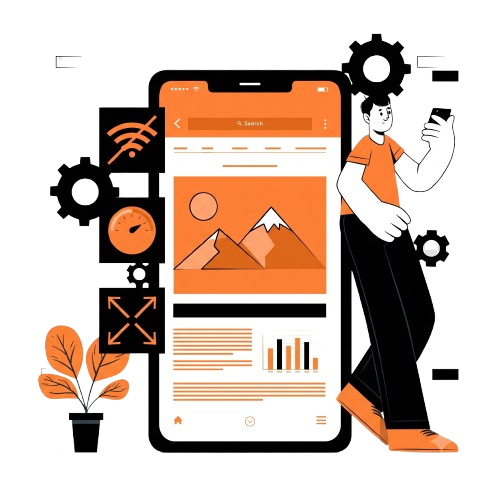
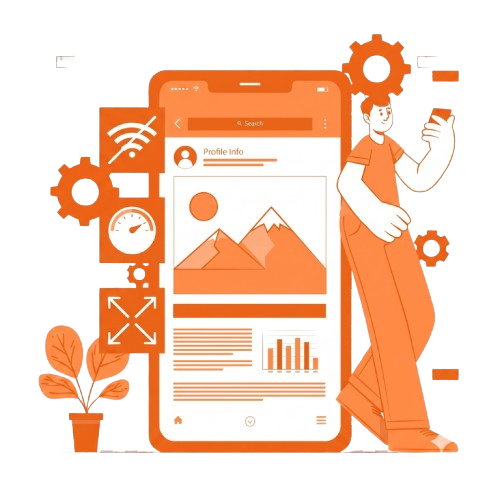
change black color background colors

Changed region(s): [[0.06, 0.06, 0.93, 0.93], [0.87, 0.33, 0.9, 0.36]]

diff --git a/src/components/sections/LandoStyleSection.tsx b/src/components/sections/LandoStyleSection.tsx
@@ -66,7 +66,7 @@ export default function LandoStyleSection() {
   }, [mounted]);
 
   if (!mounted) {
-    return <section className="w-full h-[650px] bg-[#0E100D]" />;
+    return <section className="w-full h-[650px] bg-[#000000]" />;
   }
 
   const marqueeText1 = "WE DID IT TOGETHER • CRAFTING DIGITAL DREAMS • DRIVEN BY CODE • SCALING BRANDS WORLDWIDE • ";
@@ -75,7 +75,8 @@ export default function LandoStyleSection() {
   return (
     <section
       ref={sectionRef}
-      className="relative w-full min-h-[700px] md:min-h-[850px] bg-[#0E100D] text-white overflow-hidden select-none flex flex-col justify-between py-8 md:py-12 border-y border-white/10"
+      id="landostyle-section"
+      className="relative w-full min-h-[700px] md:min-h-[850px] bg-[#000000] text-white overflow-hidden select-none flex flex-col justify-between py-8 md:py-12 border-y border-white/10"
     >
 
       {/* ─── 2. TOP HEADER NAVIGATION BAR ─── */}

diff --git a/src/components/sections/FaqSection.tsx b/src/components/sections/FaqSection.tsx
@@ -71,13 +71,14 @@ export default function FaqSection() {
   };
 
   if (!mounted) {
-    return <section className="w-full min-h-screen bg-[#0d0e10]" />;
+    return <section className="w-full min-h-screen bg-[#000000]" />;
   }
 
   return (
     <section
       ref={sectionRef}
-      className="w-full min-h-screen h-auto py-16 lg:py-24 lg:min-h-screen bg-[#0d0e10] text-white flex items-center justify-center overflow-hidden select-none"
+      id="faq-section"
+      className="w-full min-h-screen h-auto py-16 lg:py-24 lg:min-h-screen bg-[#000000] text-white flex items-center justify-center overflow-hidden select-none"
     >
       <div className="w-full max-w-[1550px] mx-auto px-5 sm:px-10 md:px-16 lg:px-20">
         <div className="grid grid-cols-1 lg:grid-cols-12 gap-8 lg:gap-12 xl:gap-20 items-center">

diff --git a/src/components/sections/About.tsx b/src/components/sections/About.tsx
@@ -193,14 +193,14 @@ export default function About() {
   }, [mounted]);
 
   if (!mounted) {
-    return <section className="w-full h-screen bg-[#0A0B0E]" />;
+    return <section className="w-full h-screen bg-[#000000]" />;
   }
 
   return (
     <section
       id="about-section"
       ref={containerRef}
-      className="w-full bg-[#0A0B0E] text-white select-none relative overflow-hidden py-16 sm:py-24 border-y border-white/10 font-inter"
+      className="w-full bg-[#000000] text-white select-none relative overflow-hidden py-16 sm:py-24 border-y border-white/10 font-inter"
     >
       <div className="w-full max-w-[1440px] mx-auto px-4 sm:px-8 lg:px-12">
         {/* ─── 1. TOP EDITORIAL SVG TITLE BANNER ─── */}

diff --git a/src/components/sections/ImageFanShowcase.tsx b/src/components/sections/ImageFanShowcase.tsx
@@ -180,14 +180,14 @@ export default function ImageFanShowcase() {
   }, [mounted]);
 
   if (!mounted) {
-    return <section className="w-full h-screen bg-[#0A0B0E]" />;
+    return <section className="w-full h-screen bg-[#000000]" />;
   }
 
   return (
     <section
       ref={containerRef}
       id="capabilities-section"
-      className="w-full bg-[#0A0B0E] text-white py-14 sm:py-24 select-none relative overflow-hidden font-inter border-y border-white/10"
+      className="w-full bg-[#000000] text-white py-14 sm:py-24 select-none relative overflow-hidden font-inter border-y border-white/10"
     >
       <div className="max-w-[1440px] mx-auto px-4 sm:px-8 lg:px-12">
 

diff --git a/src/components/sections/ImpactSection.tsx b/src/components/sections/ImpactSection.tsx
@@ -6,7 +6,7 @@ export default function ImpactSection() {
   return (
     <section
       id="impact-section"
-      className="relative w-full min-h-[580px] lg:min-h-[640px] bg-[#0A0B0E] text-white overflow-hidden select-none py-16 lg:py-24 flex flex-col justify-center"
+      className="relative w-full min-h-[580px] lg:min-h-[640px] bg-[#000000] text-white overflow-hidden select-none py-16 lg:py-24 flex flex-col justify-center"
     >
       {/* ─── MAIN NARRATIVE CONTENT GRID ─── */}
       <div className="relative z-10 w-full max-w-[1440px] mx-auto px-5 sm:px-10 lg:px-16 my-auto">

diff --git a/src/components/sections/Artifact3DSection.tsx b/src/components/sections/Artifact3DSection.tsx
@@ -245,13 +245,13 @@ export default function Artifact3DSection() {
     };
   }, [mounted]);
 
-  if (!mounted) return <section className="w-full h-screen bg-[#0A0B0E]" />;
+  if (!mounted) return <section className="w-full h-screen bg-[#000000]" />;
 
   return (
     <div
       ref={containerRef}
       id="artifact-3d-section"
-      className="relative w-full bg-[#0A0B0E] text-white font-inter select-none"
+      className="relative w-full bg-[#000000] text-white font-inter select-none"
     >
       {/* ── FIXED FULL-SCREEN CANVAS ── */}
       <canvas
